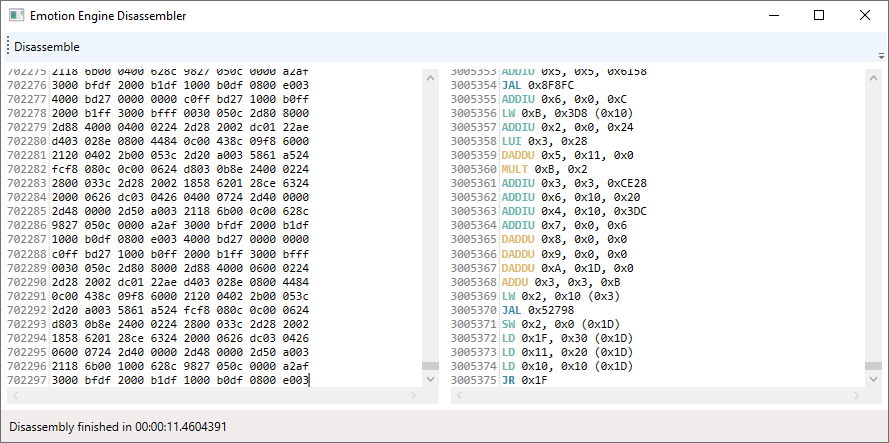
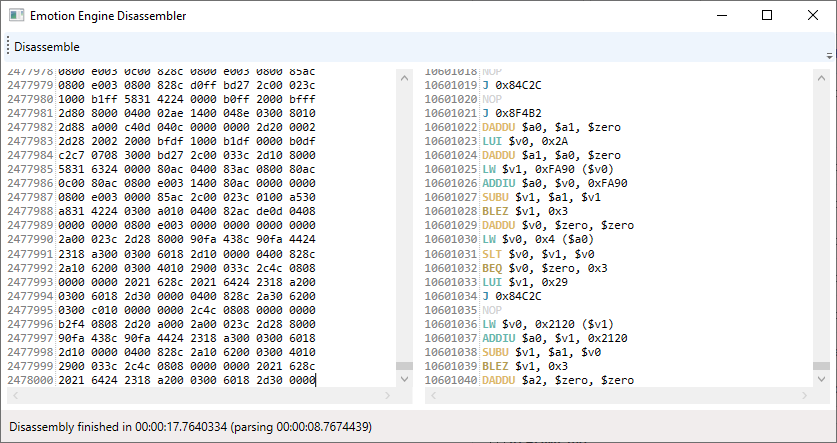
New screenshot

diff --git a/PS2Disassembler/ViewModel/MainViewVm.cs b/PS2Disassembler/ViewModel/MainViewVm.cs
@@ -1,4 +1,5 @@
-using System.Diagnostics;
+using System;
+using System.Diagnostics;
 using System.Windows.Input;
 using ICSharpCode.AvalonEdit.Document;
 using PS2Disassembler.Commands;
@@ -12,7 +13,7 @@ namespace PS2Disassembler.ViewModel
         private ICommand _disassembleCommand;
         private readonly IDisassembler _disassembler;
         private readonly IInputParser _parser;
-        private string statusText;
+        private string _statusText;
 
         public MainViewVM()
         {
@@ -34,13 +35,13 @@ namespace PS2Disassembler.ViewModel
 
         public string StatusText
         {
-            get => statusText;
+            get => _statusText;
 
             set
             {
-                if (value == statusText) return;
+                if (value == _statusText) return;
 
-                statusText = value;
+                _statusText = value;
                 NotifyPropertyChanged();
             }
         }
@@ -48,19 +49,31 @@ namespace PS2Disassembler.ViewModel
         public void Disassemble()
         {
             var sWatch = new Stopwatch();
+
+            TimeSpan parsingTime;
+            TimeSpan disassemblyTime;
+
             sWatch.Start();
 
             StatusText = "Parsing input";
             var parsedInput = _parser.ParseContent(Input.Text);
 
-            StatusText = "Disassembling";
+            sWatch.Stop();
+            parsingTime = sWatch.Elapsed;
+            sWatch.Restart();
+
+            var disassembledInput = _disassembler.Disassemble(parsedInput);
+            sWatch.Stop();
+            disassemblyTime = sWatch.Elapsed;
+
+            StatusText = $"Disassembly finished in {disassemblyTime} (parsing {parsingTime})";
+
             Output.BeginUpdate();
             Output.Remove(0, Output.TextLength);
-            Output.Insert(0, _disassembler.Disassemble(parsedInput));
+            Output.Insert(0, disassembledInput);
             Output.EndUpdate();
 
-            sWatch.Stop();
-            StatusText = $"Disassembly finished in {sWatch.Elapsed}";
+            
         }
     }
 }
